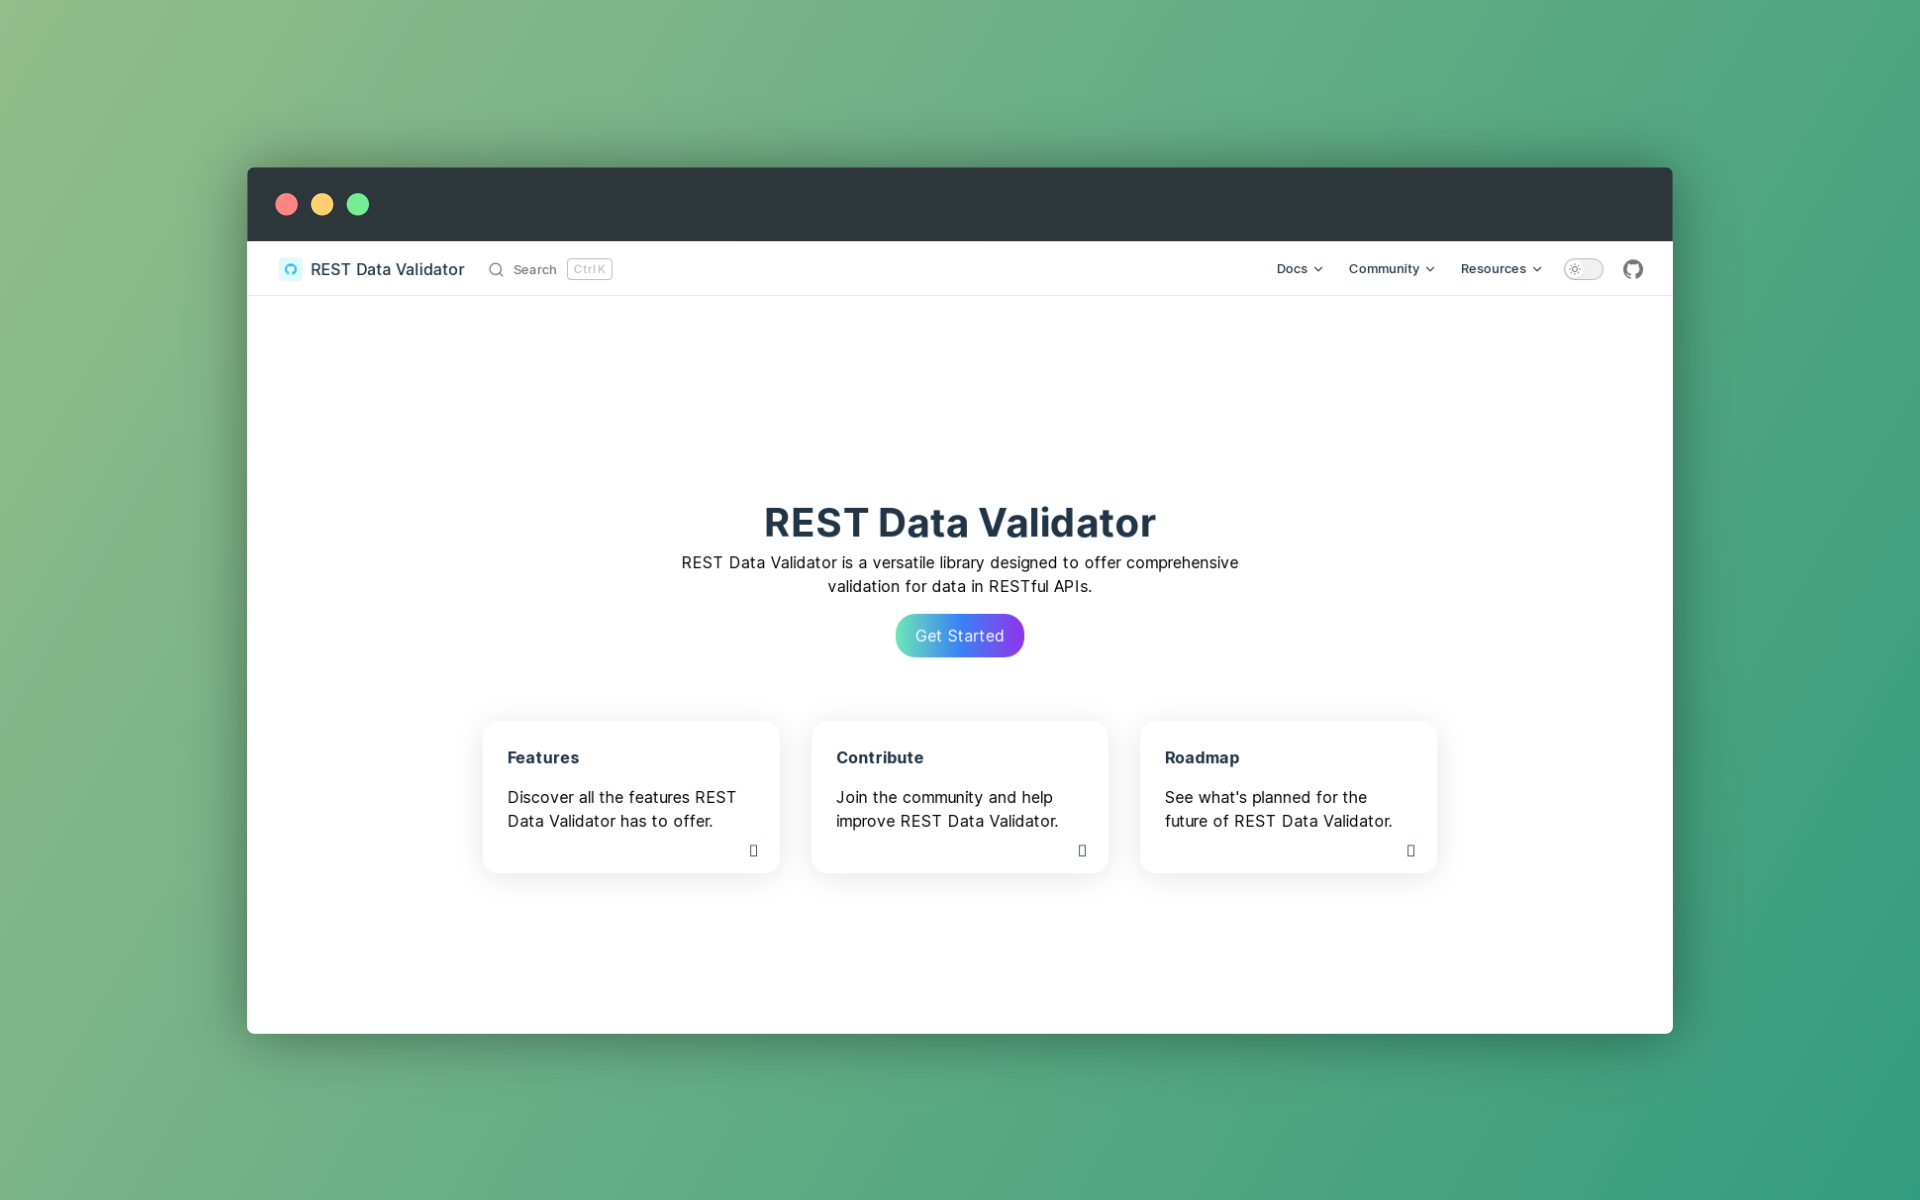
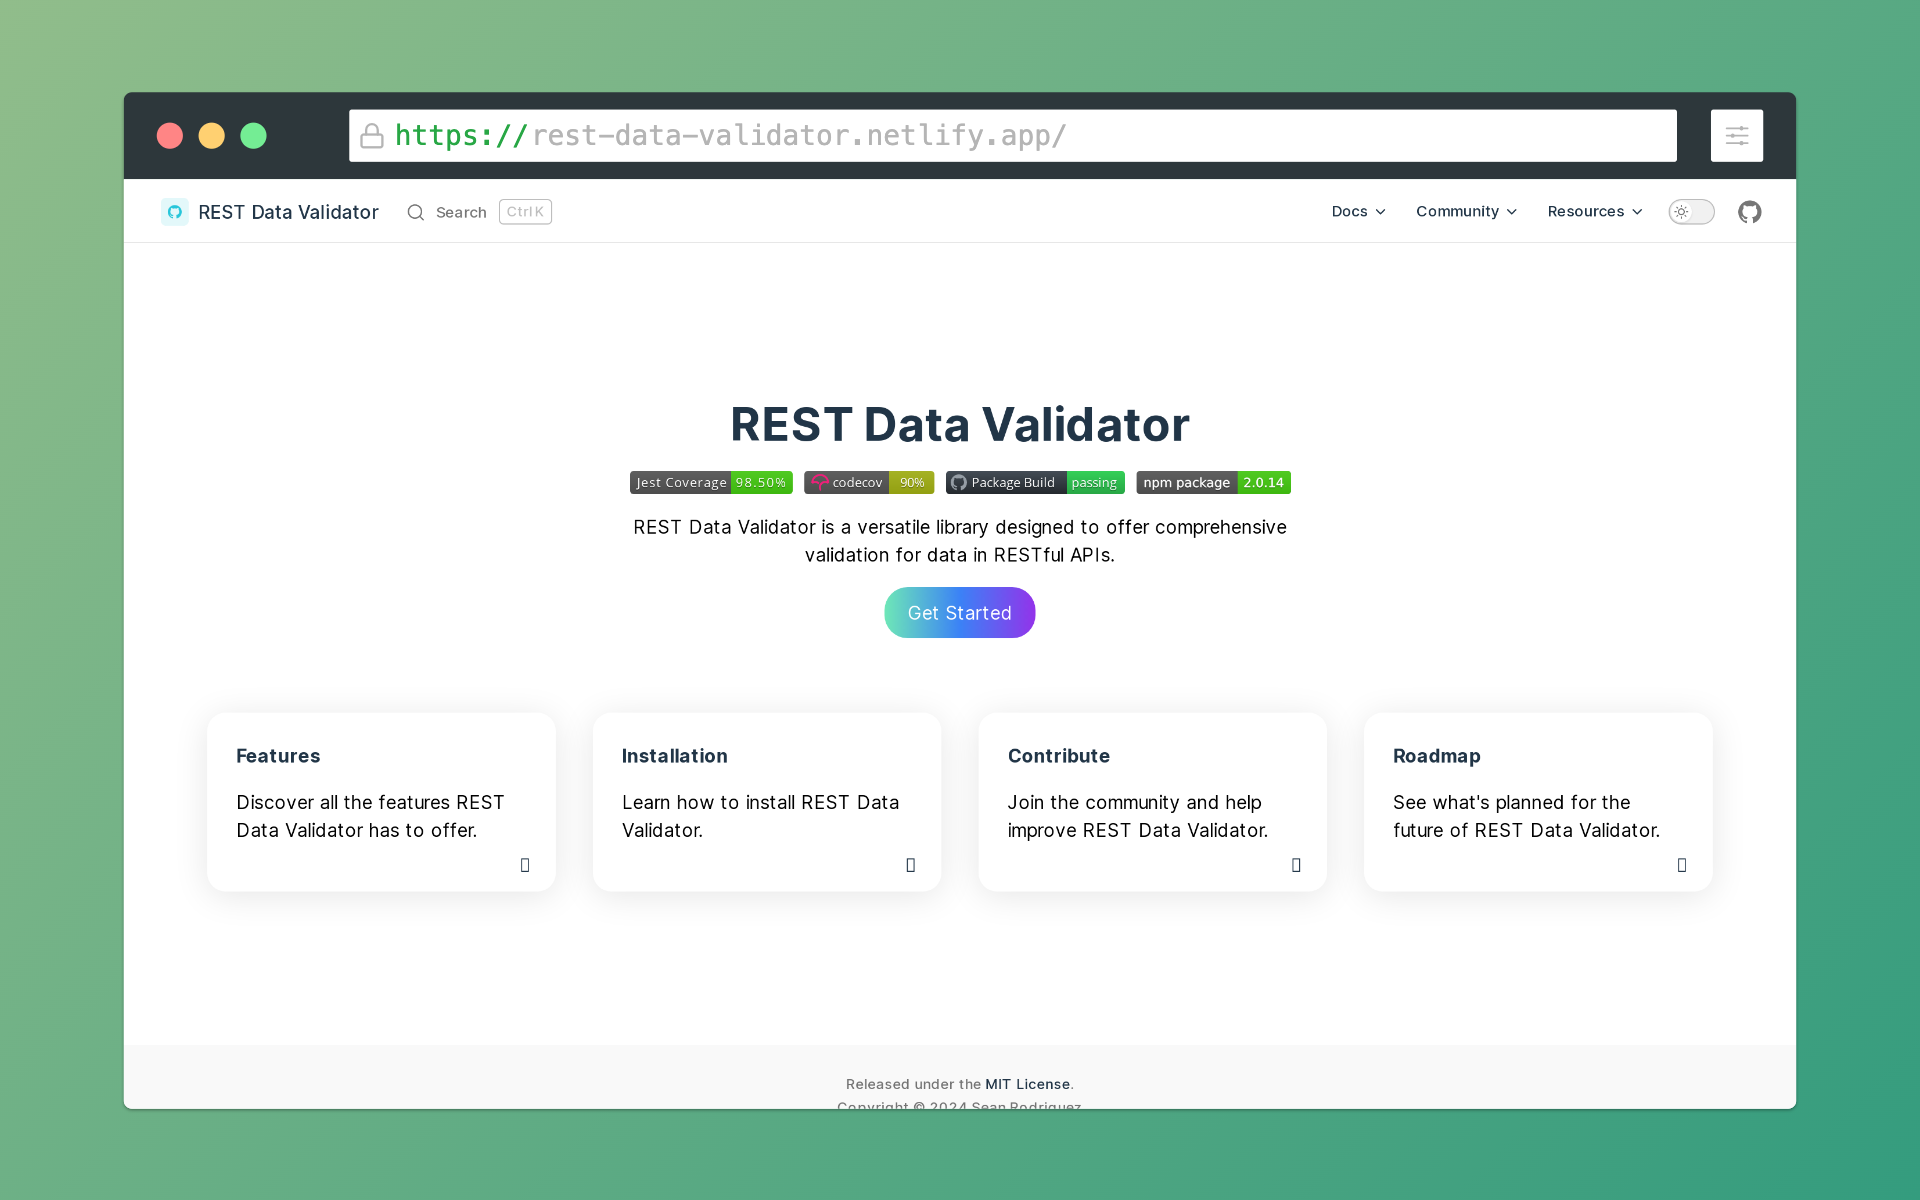
update: change README & update preview image

Changed region(s): [[0.0625, 0.0617, 0.9375, 0.925], [0.3125, 0.3392, 0.6875, 0.555]]

diff --git a/README.md b/README.md
@@ -9,7 +9,7 @@ REST Data Validator is a versatile library designed to offer comprehensive valid
 
 ### For detailed **documentation**, visit: [REST Data Validator Documentation](https://rest-data-validator.netlify.app/)
 
-![Package home preview](https://rest-data-validator.netlify.app/img/preview.png)
+![Package home preview](preview.png)
 
 ## Features
 
@@ -49,6 +49,9 @@ REST Data Validator is a versatile library designed to offer comprehensive valid
   - Contextual
   - Dependency
   - Security
+  - Alpha
+  - Contains
+- Group-Based Validation
 - Sanitizer Functions
 - Validation Utilities
   - Async Validators
@@ -90,98 +93,6 @@ Or using Yarn:
 yarn add rest-data-validator
 ```
 
-## Usage
-
-### Basic Example
-
-Basic usage involves importing the validators and applying them to your data models:
-
-```typescript
-import { ClassValidator, String, Number, validate } from "rest-data-validator";
-
-@ClassValidator
-class User {
-  @String({ minLength: 3, maxLength: 30 })
-  name: string;
-
-  @Number({ min: 18 })
-  age: number;
-}
-
-const user = new User();
-user.name = "John Doe";
-user.age = 25;
-
-// It would return true since the conditions are met, otherwise it would throw an exception.
-
-// And using the validator manually
-const beforeDate = new Date("2024-12-31");
-const afterDate = new Date("2020-01-01");
-
-const options = { before: beforeDate, after: afterDate };
-const validDateString = "2022-06-15";
-const validationResult = validateDate(validDateString, options).isValid;
-
-console.log(validationResult); // false;
-```
-
-### Using Decorators for Validation
-
-Decorators can be applied to class properties to specify the validation rules directly in the model definition:
-
-```typescript
-import {
-  String,
-  Number,
-  Enum,
-  ClassValidator
-} from "rest-data-validator";
-
-enum Role {
-  Admin,
-  User,
-  Guest,
-}
-
-@ClassValidator
-class UserProfile {
-  @String({ minLength: 2, maxLength: 100 })
-  username: string;
-
-  @Number({ min: 1, max: 100 })
-  level: number;
-
-  @Enum({ enum: Role })
-  role: Role;
-}
-
-const profile = new UserProfile();
-profile.username = "validator";
-profile.level = 5;
-profile.role = Role.User;
-```
-
-### Custom Validation Rules
-
-For more complex validation scenarios, custom validators can be created and used:
-
-```typescript
-import { IValidationResult, validateCustom } from "rest-data-validator";
-
-function customUsernameValidator(value: string): IValidationResult {
-  const isValid = /^[a-zA-Z0-9]+$/.test(value);
-  return {
-    isValid,
-    errors: isValid
-      ? []
-      : ["Username must only contain alphanumeric characters."],
-  };
-}
-
-const result = validateCustom("user123", customUsernameValidator);
-console.log(result);
-```
-
 ## Roadmap
 
 The `rest-data-validator` project aims to continually evolve with the needs of developers and the dynamics of RESTful API design. Below is a tentative roadmap of features and improvements we're exploring:
@@ -196,7 +107,7 @@ The `rest-data-validator` project aims to continually evolve with the needs of d
 
 - [ ] **Sanitization Enhancements**: Expand sanitization utilities for preprocessing data, ensuring robust input handling before validation.
 
-- [ ] **Framework Middleware**: Develop middleware for seamless integration with popular server frameworks like Express and NestJS.
+- [X] **Framework Middleware**: Develop middleware for seamless integration with popular server frameworks like Express and NestJS.
 
 - [ ] **Runtime Type System Integration**: Explore compatibility with runtime type validation libraries to enhance JavaScript validation capabilities.
 
@@ -204,7 +115,7 @@ The `rest-data-validator` project aims to continually evolve with the needs of d
 
 - [ ] **Plugin Architecture**: Create an extensible plugin system allowing custom validators and sanitizers, fostering community-driven enhancements.
 
-- [ ] **Performance Optimization**: Profile and optimize the core validation logic to efficiently handle large datasets and reduce overhead in high-throughput environments.
+- [X] **Performance Optimization**: Profile and optimize the core validation logic to efficiently handle large datasets and reduce overhead in high-throughput environments.
 
 - [ ] **GUI for Schema Building**: Provide a graphical interface for constructing and exporting validation schemas, streamlining the setup process for `rest-data-validator`.
 
